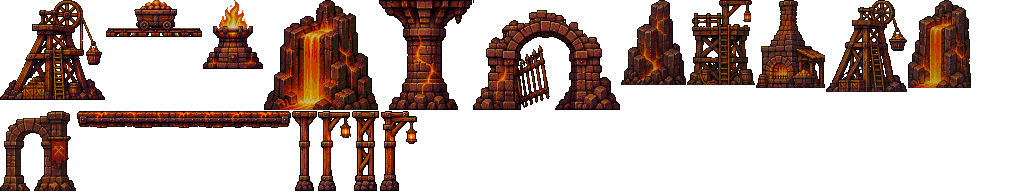
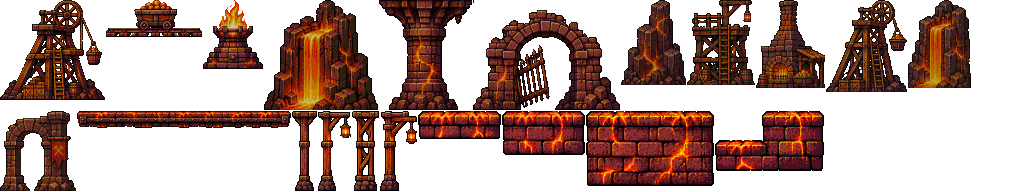
Robert's Mines blocks in: lava-cracked brick blocks replace the code stone on map 5 (v0.9.9)
Claude-Session: https://claude.ai/code/session_014iNMQM8qNDnCHaEWy5Qmep

Changed region(s): [[0.4062, 0.5625, 0.8125, 0.9688]]

diff --git a/src/scenery.js b/src/scenery.js
@@ -1,3 +1,3 @@
 /* Level scenery cut by tools/cut_scenery.py from Robert's GPT art: atlas rects [x, y, w, h] and strip sizes. */
 window.DS = window.DS || {};
-DS.SCENERY = {"shallows":{"atlas":{"shrine1":[0,0,73,52],"shrine2":[74,0,64,62],"shrine3":[139,0,66,49],"post1":[206,0,31,66],"post2":[238,0,47,66],"cart":[286,0,78,26]}},"mire":{"atlas":{"chapel":[0,0,227,132],"hang1":[228,0,104,118],"hang2":[333,0,110,115],"hang3":[444,0,96,118],"grave1":[541,0,15,19],"grave2":[557,0,14,20],"grave3":[572,0,21,10],"grave4":[594,0,17,21],"grave5":[612,0,15,22],"grave6":[628,0,13,11],"tree1":[642,0,49,68],"tree2":[692,0,73,91],"tree3":[766,0,46,83],"tree4":[813,0,72,71],"tree5":[886,0,43,62],"tree6":[930,0,73,69],"walk":[0,133,279,17],"post1":[280,133,10,80],"post2":[291,133,10,80],"post3":[302,133,10,80],"post4":[313,133,10,80],"block1":[324,133,83,19],"block2":[408,133,83,38],"block3":[492,133,133,75],"steps":[626,133,104,38]},"sky":[720,240],"far":[582,64]},"reaches":{"atlas":{"bridge":[0,0,265,76],"tower":[266,0,53,128],"crag1":[320,0,92,134],"crag2":[413,0,133,134],"crag3":[547,0,133,140],"rock1":[681,0,63,92],"rock2":[745,0,69,50],"window":[815,0,76,87],"rock3":[892,0,74,85],"scaffold":[0,141,72,85],"banner":[73,141,78,96],"walk":[152,141,147,17],"post1":[300,141,20,80],"post2":[321,141,20,80],"post3":[342,141,20,80],"post4":[363,141,20,80],"block1":[384,141,73,37],"block2":[458,141,68,56],"block3":[527,141,100,75],"steps":[628,141,84,55]},"sky":[720,240],"far":[385,64]},"abyss":{"atlas":{"agrave1":[0,0,26,40],"agrave2":[27,0,28,40],"agrave3":[56,0,29,30],"crystal1":[86,0,21,19],"crystal2":[108,0,31,30],"crystal3":[140,0,30,39],"briar1":[171,0,100,96],"briar2":[272,0,67,27],"bellframe":[340,0,131,96],"dtree1":[472,0,71,87],"dtree2":[544,0,74,86],"dtree3":[619,0,60,92],"dtree4":[680,0,75,92],"dtree5":[756,0,62,89],"dtree6":[819,0,69,89],"walk":[0,97,155,15],"post1":[156,97,20,80],"post2":[177,97,22,80],"post3":[200,97,22,80],"post4":[223,97,31,80],"block1":[255,97,87,29],"block2":[343,97,83,47],"block3":[427,97,131,75],"steps":[559,97,105,60]},"sky":[720,240],"far":[439,64]},"spires":{"atlas":{"portal":[0,0,117,130],"pylon":[118,0,60,124],"pylonBroken":[179,0,55,85],"isle1":[235,0,65,73],"isle2":[301,0,78,71],"isle3":[380,0,65,77],"arch":[446,0,75,75],"cpillar":[522,0,45,89],"wall":[568,0,57,70],"fisle1":[626,0,66,77],"chpillar":[693,0,58,75],"fisle2":[752,0,47,92],"walk":[800,0,119,15],"post1":[920,0,16,70],"post2":[937,0,20,70],"post3":[958,0,26,70],"post4":[985,0,24,80],"block1":[0,131,62,33],"block2":[63,131,60,48],"block3":[124,131,87,75],"steps":[212,131,76,56]},"sky":[720,240],"far":[401,64]},"mines":{"atlas":{"headframe":[0,0,105,100],"cart":[106,0,96,37],"brazier":[203,0,60,69],"lavafall":[264,0,114,110],"pillar":[379,0,93,110],"gate":[473,0,147,110],"basalt":[621,0,65,85],"scaffold":[687,0,68,85],"chimney":[756,0,69,88],"mheadframe":[826,0,81,92],"lavarock":[908,0,63,88],"parch":[0,111,76,80],"walk":[77,111,214,17],"post1":[292,111,25,80],"post2":[318,111,33,80],"post3":[352,111,27,80],"post4":[380,111,37,80]},"sky":[720,240],"far":[363,64]}};
+DS.SCENERY = {"shallows":{"atlas":{"shrine1":[0,0,73,52],"shrine2":[74,0,64,62],"shrine3":[139,0,66,49],"post1":[206,0,31,66],"post2":[238,0,47,66],"cart":[286,0,78,26]}},"mire":{"atlas":{"chapel":[0,0,227,132],"hang1":[228,0,104,118],"hang2":[333,0,110,115],"hang3":[444,0,96,118],"grave1":[541,0,15,19],"grave2":[557,0,14,20],"grave3":[572,0,21,10],"grave4":[594,0,17,21],"grave5":[612,0,15,22],"grave6":[628,0,13,11],"tree1":[642,0,49,68],"tree2":[692,0,73,91],"tree3":[766,0,46,83],"tree4":[813,0,72,71],"tree5":[886,0,43,62],"tree6":[930,0,73,69],"walk":[0,133,279,17],"post1":[280,133,10,80],"post2":[291,133,10,80],"post3":[302,133,10,80],"post4":[313,133,10,80],"block1":[324,133,83,19],"block2":[408,133,83,38],"block3":[492,133,133,75],"steps":[626,133,104,38]},"sky":[720,240],"far":[582,64]},"reaches":{"atlas":{"bridge":[0,0,265,76],"tower":[266,0,53,128],"crag1":[320,0,92,134],"crag2":[413,0,133,134],"crag3":[547,0,133,140],"rock1":[681,0,63,92],"rock2":[745,0,69,50],"window":[815,0,76,87],"rock3":[892,0,74,85],"scaffold":[0,141,72,85],"banner":[73,141,78,96],"walk":[152,141,147,17],"post1":[300,141,20,80],"post2":[321,141,20,80],"post3":[342,141,20,80],"post4":[363,141,20,80],"block1":[384,141,73,37],"block2":[458,141,68,56],"block3":[527,141,100,75],"steps":[628,141,84,55]},"sky":[720,240],"far":[385,64]},"abyss":{"atlas":{"agrave1":[0,0,26,40],"agrave2":[27,0,28,40],"agrave3":[56,0,29,30],"crystal1":[86,0,21,19],"crystal2":[108,0,31,30],"crystal3":[140,0,30,39],"briar1":[171,0,100,96],"briar2":[272,0,67,27],"bellframe":[340,0,131,96],"dtree1":[472,0,71,87],"dtree2":[544,0,74,86],"dtree3":[619,0,60,92],"dtree4":[680,0,75,92],"dtree5":[756,0,62,89],"dtree6":[819,0,69,89],"walk":[0,97,155,15],"post1":[156,97,20,80],"post2":[177,97,22,80],"post3":[200,97,22,80],"post4":[223,97,31,80],"block1":[255,97,87,29],"block2":[343,97,83,47],"block3":[427,97,131,75],"steps":[559,97,105,60]},"sky":[720,240],"far":[439,64]},"spires":{"atlas":{"portal":[0,0,117,130],"pylon":[118,0,60,124],"pylonBroken":[179,0,55,85],"isle1":[235,0,65,73],"isle2":[301,0,78,71],"isle3":[380,0,65,77],"arch":[446,0,75,75],"cpillar":[522,0,45,89],"wall":[568,0,57,70],"fisle1":[626,0,66,77],"chpillar":[693,0,58,75],"fisle2":[752,0,47,92],"walk":[800,0,119,15],"post1":[920,0,16,70],"post2":[937,0,20,70],"post3":[958,0,26,70],"post4":[985,0,24,80],"block1":[0,131,62,33],"block2":[63,131,60,48],"block3":[124,131,87,75],"steps":[212,131,76,56]},"sky":[720,240],"far":[401,64]},"mines":{"atlas":{"headframe":[0,0,105,100],"cart":[106,0,96,37],"brazier":[203,0,60,69],"lavafall":[264,0,114,110],"pillar":[379,0,93,110],"gate":[473,0,147,110],"basalt":[621,0,65,85],"scaffold":[687,0,68,85],"chimney":[756,0,69,88],"mheadframe":[826,0,81,92],"lavarock":[908,0,63,88],"parch":[0,111,76,80],"walk":[77,111,214,17],"post1":[292,111,25,80],"post2":[318,111,33,80],"post3":[352,111,27,80],"post4":[380,111,37,80],"block1":[418,111,83,28],"block2":[502,111,83,44],"block3":[586,111,128,75],"steps":[715,111,109,60]},"sky":[720,240],"far":[363,64]}};

diff --git a/index.html b/index.html
@@ -7,7 +7,7 @@
 <meta name="theme-color" content="#0a1420">
 <link rel="preconnect" href="https://fonts.googleapis.com">
 <link rel="stylesheet" href="https://fonts.googleapis.com/css2?family=Pixelify+Sans:wght@500;700&family=Inter:wght@400;600;700&display=swap">
-<link rel="stylesheet" href="style.css?v=0.9.8">
+<link rel="stylesheet" href="style.css?v=0.9.9">
 </head>
 <body>
 <!--BODY-->
@@ -81,19 +81,19 @@
 
 <div id="rotate">Turn your phone sideways to play</div>
 <!--/BODY-->
-<script src="src/data.js?v=0.9.8"></script>
-<script src="src/pixscale.js?v=0.9.8"></script>
-<script src="src/sprites.js?v=0.9.8"></script>
-<script src="src/input.js?v=0.9.8"></script>
-<script src="src/scenery.js?v=0.9.8"></script>
-<script src="src/world.js?v=0.9.8"></script>
-<script src="src/game.js?v=0.9.8"></script>
-<script src="src/kits.js?v=0.9.8"></script>
-<script src="src/familiars.js?v=0.9.8"></script>
-<script src="src/pickart.js?v=0.9.8"></script>
-<script src="src/explore.js?v=0.9.8"></script>
-<script src="src/render.js?v=0.9.8"></script>
-<script src="src/ui.js?v=0.9.8"></script>
+<script src="src/data.js?v=0.9.9"></script>
+<script src="src/pixscale.js?v=0.9.9"></script>
+<script src="src/sprites.js?v=0.9.9"></script>
+<script src="src/input.js?v=0.9.9"></script>
+<script src="src/scenery.js?v=0.9.9"></script>
+<script src="src/world.js?v=0.9.9"></script>
+<script src="src/game.js?v=0.9.9"></script>
+<script src="src/kits.js?v=0.9.9"></script>
+<script src="src/familiars.js?v=0.9.9"></script>
+<script src="src/pickart.js?v=0.9.9"></script>
+<script src="src/explore.js?v=0.9.9"></script>
+<script src="src/render.js?v=0.9.9"></script>
+<script src="src/ui.js?v=0.9.9"></script>
 <script>DS.boot();</script>
 </body>
 </html>

diff --git a/wallpaper.html b/wallpaper.html
@@ -7,7 +7,7 @@
 <meta name="theme-color" content="#0a1420">
 <link rel="preconnect" href="https://fonts.googleapis.com">
 <link rel="stylesheet" href="https://fonts.googleapis.com/css2?family=Pixelify+Sans:wght@500;700&family=Inter:wght@400;600;700&display=swap">
-<link rel="stylesheet" href="style.css?v=0.9.8">
+<link rel="stylesheet" href="style.css?v=0.9.9">
 </head>
 <body>
 <!--BODY-->
@@ -81,19 +81,19 @@
 
 <div id="rotate">Turn your phone sideways to play</div>
 <!--/BODY-->
-<script src="src/data.js?v=0.9.8"></script>
-<script src="src/pixscale.js?v=0.9.8"></script>
-<script src="src/sprites.js?v=0.9.8"></script>
-<script src="src/input.js?v=0.9.8"></script>
-<script src="src/scenery.js?v=0.9.8"></script>
-<script src="src/world.js?v=0.9.8"></script>
-<script src="src/game.js?v=0.9.8"></script>
-<script src="src/kits.js?v=0.9.8"></script>
-<script src="src/familiars.js?v=0.9.8"></script>
-<script src="src/pickart.js?v=0.9.8"></script>
-<script src="src/explore.js?v=0.9.8"></script>
-<script src="src/render.js?v=0.9.8"></script>
-<script src="src/ui.js?v=0.9.8"></script>
+<script src="src/data.js?v=0.9.9"></script>
+<script src="src/pixscale.js?v=0.9.9"></script>
+<script src="src/sprites.js?v=0.9.9"></script>
+<script src="src/input.js?v=0.9.9"></script>
+<script src="src/scenery.js?v=0.9.9"></script>
+<script src="src/world.js?v=0.9.9"></script>
+<script src="src/game.js?v=0.9.9"></script>
+<script src="src/kits.js?v=0.9.9"></script>
+<script src="src/familiars.js?v=0.9.9"></script>
+<script src="src/pickart.js?v=0.9.9"></script>
+<script src="src/explore.js?v=0.9.9"></script>
+<script src="src/render.js?v=0.9.9"></script>
+<script src="src/ui.js?v=0.9.9"></script>
 <script>DS.boot();</script>
 </body>
 </html>

diff --git a/artifact.html b/artifact.html
@@ -1,7 +1,7 @@
 <title>Drowned Light Side View</title>
 <meta name="claude:viewport-fit-sides" content="cover">
 <link rel="stylesheet" href="https://fonts.googleapis.com/css2?family=Pixelify+Sans:wght@500;700&family=Inter:wght@400;600;700&display=swap">
-<link rel="stylesheet" href="style.css?v=0.9.8">
+<link rel="stylesheet" href="style.css?v=0.9.9">
 
 <canvas id="game"></canvas>
 
@@ -72,17 +72,17 @@
 </section>
 
 <div id="rotate">Turn your phone sideways to play</div>
-<script src="src/data.js?v=0.9.8"></script>
-<script src="src/pixscale.js?v=0.9.8"></script>
-<script src="src/sprites.js?v=0.9.8"></script>
-<script src="src/input.js?v=0.9.8"></script>
-<script src="src/scenery.js?v=0.9.8"></script>
-<script src="src/world.js?v=0.9.8"></script>
-<script src="src/game.js?v=0.9.8"></script>
-<script src="src/kits.js?v=0.9.8"></script>
-<script src="src/familiars.js?v=0.9.8"></script>
-<script src="src/pickart.js?v=0.9.8"></script>
-<script src="src/explore.js?v=0.9.8"></script>
-<script src="src/render.js?v=0.9.8"></script>
-<script src="src/ui.js?v=0.9.8"></script>
+<script src="src/data.js?v=0.9.9"></script>
+<script src="src/pixscale.js?v=0.9.9"></script>
+<script src="src/sprites.js?v=0.9.9"></script>
+<script src="src/input.js?v=0.9.9"></script>
+<script src="src/scenery.js?v=0.9.9"></script>
+<script src="src/world.js?v=0.9.9"></script>
+<script src="src/game.js?v=0.9.9"></script>
+<script src="src/kits.js?v=0.9.9"></script>
+<script src="src/familiars.js?v=0.9.9"></script>
+<script src="src/pickart.js?v=0.9.9"></script>
+<script src="src/explore.js?v=0.9.9"></script>
+<script src="src/render.js?v=0.9.9"></script>
+<script src="src/ui.js?v=0.9.9"></script>
 <script>DS.boot();</script>

diff --git a/src/data.js b/src/data.js
@@ -4,7 +4,7 @@
    a frame without one gets its feet guessed from its lowest opaque pixels (src/sprites.js). */
 "use strict";
 (function (DS) {
-  DS.VERSION = "0.9.8";
+  DS.VERSION = "0.9.9";
   // ?level=N starts the scrolling run on level N (to look at a level's scenery without playing through)
   DS.START_LEVEL = Math.max(0, (parseInt(new URLSearchParams(location.search).get("level"), 10) || 1) - 1);
 

diff --git a/tools/cut_scenery.py b/tools/cut_scenery.py
@@ -52,12 +52,13 @@ SHEETS = {
         "posts.png": (["post1", "post2", "post3", "post4"], 80, 0.0),
         "blocks.png": (["block1", "block2", "block3", "steps"], 75, 0.0),
     },
-    "mines": {  # blocks.png still to come: platforms fall back to the code stone until then
+    "mines": {
         "headframe-cart.png": (["headframe", "cart", "brazier"], 100, 0.25),
         "lavafalls-pillars.png": (["lavafall", "pillar", "gate"], 110, 0.25),
         "mid.png": (["basalt", "scaffold", "chimney", "mheadframe", "lavarock", "parch"], 92, 0.3),
         "walkways.png": (["walk"], 17, 0.0),
         "posts.png": (["post1", "post2", "post3", "post4"], 80, 0.0),
+        "blocks.png": (["block1", "block2", "block3", "steps"], 75, 0.0),
     },
 }
 # full-width strips: (target height px, fog). The sky is a plain picture; "far" is silhouettes on magenta.
